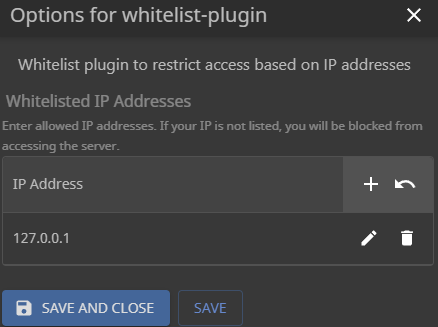
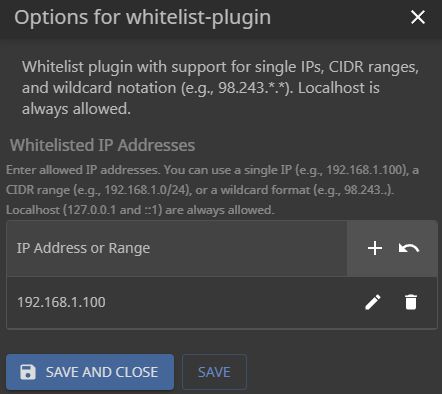
v1.3
Whitelist plugin with support for single IPs, CIDR ranges, and wildcard notation (e.g., 98.243.*.*). Localhost is always allowed.

diff --git a/dist/plugin.js b/dist/plugin.js
@@ -1,39 +1,87 @@
-exports.version = 1.0;
+exports.version = 1.3;
 exports.apiRequired = 1;
-exports.description = "Whitelist plugin to restrict access based on IP addresses";
-exports.repo = "illskillz24-cho3/whitelist-plugin";
+exports.description = "Whitelist plugin with support for single IPs, CIDR ranges, and wildcard notation (e.g., 98.243.*.*). Localhost is always allowed.";
+exports.repo = "illskillz24-cgo3/whitelist-plugin";
 
 exports.config = {
     whitelist: {
         type: 'array',
         label: 'Whitelisted IP Addresses',
-        helperText: 'Enter allowed IP addresses. If your IP is not listed, you will be blocked from accessing the server.',
+        helperText: 'Enter allowed IP addresses. You can use a single IP (e.g., 192.168.1.100), a CIDR range (e.g., 192.168.1.0/24), or a wildcard format (e.g., 98.243.*.*). Localhost (127.0.0.1 and ::1) are always allowed.',
         fields: {
             ip: {
                 type: 'string',
-                label: 'IP Address',
+                label: 'IP Address or Range',
                 defaultValue: '127.0.0.1',
-                helperText: 'Example: 192.168.1.100'
+                helperText: 'Examples: 192.168.1.100, 192.168.1.0/24, or 98.243.*.*'
             }
         }
     }
 };
 
+// Convert an IPv4 address to a numeric value
+function ipToLong(ip) {
+    return ip.split('.').reduce((acc, octet) => (acc << 8) + parseInt(octet, 10), 0) >>> 0;
+}
+
+// Check if an IPv4 address falls within a CIDR range (e.g., 192.168.1.0/24)
+function isIpInCidr(ip, cidr) {
+    const [range, bits] = cidr.split('/');
+    const ipLong = ipToLong(ip);
+    const rangeLong = ipToLong(range);
+    const mask = ~((1 << (32 - parseInt(bits, 10))) - 1) >>> 0;
+    return (ipLong & mask) === (rangeLong & mask);
+}
+
+// Check if an IP matches a wildcard pattern (e.g., 98.243.*.*)
+function isIpWildcardMatch(ip, pattern) {
+    // Convert wildcard pattern to a regular expression
+    const regexStr = '^' + pattern.split('.').map(part => {
+        if (part === '*') return '[0-9]{1,3}';
+        return part.replace(/[.*+?^${}()|[\]\\]/g, '\\$&');
+    }).join('\\.') + '$';
+    const re = new RegExp(regexStr);
+    return re.test(ip);
+}
+
 exports.init = api => {
     return {
         middleware(ctx) {
-            // Retrieve the whitelist from the config (an array of objects with an "ip" property)
-            const whitelist = (api.getConfig('whitelist') || []).map(item => item.ip.trim());
+            // Automatically allow local connections (IPv4 and IPv6)
+            if (ctx.ip === "127.0.0.1" || ctx.ip === "::1") {
+                return;
+            }
             
-            // Only enforce if there is at least one IP defined
-            if (whitelist.length > 0) {
-                if (!whitelist.includes(ctx.ip)) {
-                    ctx.status = 403;
-                    ctx.body = 'Forbidden: Your IP is not whitelisted.';
-                    return ctx.stop?.() || true;
+            // Retrieve and trim whitelist entries
+            const whitelist = (api.getConfig('whitelist') || []).map(item => item.ip.trim());
+            let allowed = false;
+            for (const entry of whitelist) {
+                if (entry.includes('/')) {
+                    // Check for CIDR notation
+                    if (isIpInCidr(ctx.ip, entry)) {
+                        allowed = true;
+                        break;
+                    }
+                } else if (entry.includes('*')) {
+                    // Check for wildcard patterns
+                    if (isIpWildcardMatch(ctx.ip, entry)) {
+                        allowed = true;
+                        break;
+                    }
+                } else {
+                    // Check for an exact IP match
+                    if (entry === ctx.ip) {
+                        allowed = true;
+                        break;
+                    }
                 }
             }
-            // If the whitelist is empty, all requests are allowed.
+            
+            if (whitelist.length > 0 && !allowed) {
+                ctx.status = 403;
+                ctx.body = 'Forbidden: Your IP is not whitelisted.';
+                return ctx.stop?.() || true;
+            }
         }
-    }
+    };
 };
